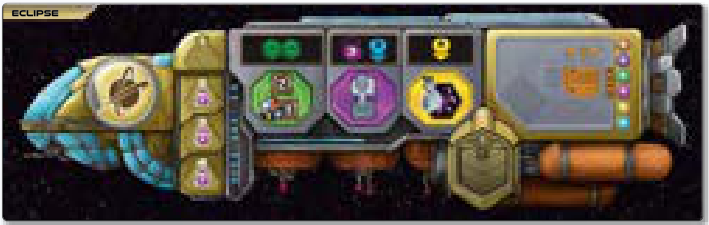
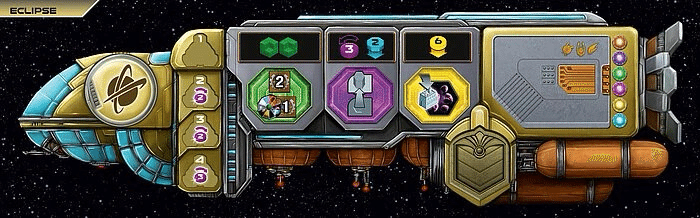
feat(weights): 船ボードの画像を note の4枚に差し替え（画質改善）
ルールブック PDF から切り出した画像（各 709×225）は実機で画質が悪いとのことなので、
public/ 直下にアップロードされていた note の画像4枚を元の形式のまま public/ships/ へ
複製して使う（twilight.png 526×162 / eclipse.png 700×218 / rebellion.jpg 700×218 /
tfmars.jpg 1200×360、計約360KB）。再圧縮はしていない。

形式が船ごとに違うので、参照は WeightsEditor の SHIP_IMG_SRC（船→パスの表）で持つ。
旧 rebellion.png / tfmars.png は削除。README と HANDOFF の記述を合わせた。

Claude-Session: https://claude.ai/code/session_01LFewSZfLEbcv2EudSDC8BE

diff --git a/src/components/WeightsEditor.tsx b/src/components/WeightsEditor.tsx
@@ -86,6 +86,17 @@ const HOME_BG: Record<string, string> = {
   ASTEROID: "#9c4a8f",
 };
 
+/**
+ * 船ボードの画像（public/ships/）。note の記事の画像を元ファイルの形式のまま置いて
+ * あるので拡張子が船ごとに違う。差し替えるときはここも合わせる。
+ */
+const SHIP_IMG_SRC: Record<ShipId, string> = {
+  twilight: "/ships/twilight.png",
+  eclipse: "/ships/eclipse.png",
+  rebellion: "/ships/rebellion.jpg",
+  tfmars: "/ships/tfmars.jpg",
+};
+
 type Mode = "matrix" | "tile";
 
 type Sel =
@@ -541,11 +552,11 @@ export default function WeightsEditor() {
 
   /**
    * 列が船のときだけ、グリッドの上に船ボードのサムネイルを並べる（2026-09-13）。
-   * 画像は public/ships/<shipId>.png（ルールブックから切り出したもの）。
+   * 画像は SHIP_IMG_SRC（public/ships/）。
    * 選択中のセルの船は青く、タップで拡大（もう一度タップで閉じる）。
    * 画像が無いときは枠と名前だけ残し、壊れた画像アイコンは出さない。
    */
-  const shipImgSrc = (id: ShipId) => `/ships/${id}.png`;
+  const shipImgSrc = (id: ShipId) => SHIP_IMG_SRC[id];
   const zoomedShip = shipZoom && shipCols.includes(shipZoom) ? shipZoom : null;
   const shipStrip =
     shipCols.length > 0 ? (

diff --git a/HANDOFF.md b/HANDOFF.md
@@ -23,10 +23,12 @@
    船のとき（一括、または FEDG/TSL のタイル）、グリッドの上に船のサムネイルを並べる。
    選択中のセルの船は青く、タップで拡大、もう一度で閉じる。「原寸で開く」で別タブ。
    画像が無ければ名前だけの枠。評価値は一切変えていない。
-2. **船ボードの画像4枚**（`f4b76dc`）。`public/ships/{twilight,rebellion,tfmars,eclipse}.png`
-   （各 709×225、約60KB）。Lost Fleet ルールブック（英語版 PDF）7ページの図を、
-   埋め込み画像の実寸に合わせて切り出した（PyMuPDF、2.8倍、p7 の x=42 / y=54,163,272,382 /
-   253×80pt）。note の画像はトワイライトだけ 526px と小さいので使っていない。
+2. **船ボードの画像4枚**（`f4b76dc`、その後差し替え）。最初は Lost Fleet ルールブック
+   （英語版 PDF）7ページの図を切り出した（各 709×225）が、**実機で画質が悪い**との
+   ことで、`public/` 直下にアップロードされた note の画像4枚をそのまま `public/ships/`
+   へ複製した（twilight.png 526×162 / eclipse.png 700×218 / rebellion.jpg 700×218 /
+   tfmars.jpg 1200×360、計約360KB）。形式が船ごとに違うので参照は
+   `WeightsEditor.tsx` の `SHIP_IMG_SRC` で持つ。
 3. 1回目のリリース記録（`047c20e`）。
 4. **材料の受け渡しで分かったこと**: この作業環境は Google と note のホストへ出られない
    （通信ポリシーの 403）。Drive コネクタも中身を会話へ流す方式で 3MB は通らない。

diff --git a/data/weights/README.md b/data/weights/README.md
@@ -111,8 +111,9 @@ Android で `https://gaia-project-map-search.vercel.app/weights` を開く
     一括より優先され、上書きしたセルは下線が付く。ルール全文が同じ画面に出る。
 - 「ブースター他」の拡張版で列が船になるとき（一括、または FEDG/TSL のタイル）は、
   グリッドの上に**船ボードの画像**が並ぶ（2026-09-13 追加）。タップで拡大、もう一度で
-  閉じる。画像は `public/ships/<shipId>.png`（twilight / eclipse / rebellion / tfmars）。
-  無ければ名前だけの枠になる。
+  閉じる。画像は `public/ships/`（twilight.png / eclipse.png / rebellion.jpg / tfmars.jpg。
+  note の記事の画像を元の形式のまま置いてある）。差し替えるときは
+  `WeightsEditor.tsx` の `SHIP_IMG_SRC` も合わせる。無ければ名前だけの枠になる。
 - 編集はブラウザの localStorage に溜まるだけで、**CSV も `.ts` も書き換わらない**。
 - 「差分を出す」で変わったセルだけのテキストが出る。それを PC へ持ち帰って反映する:
 
